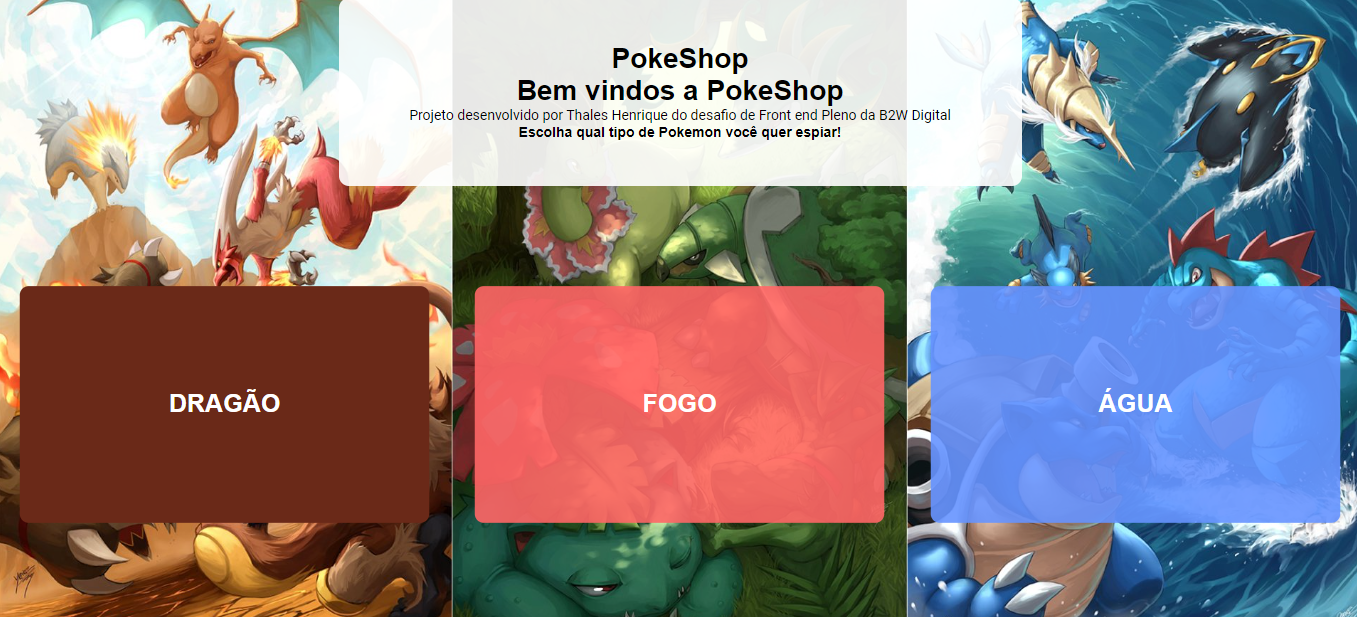
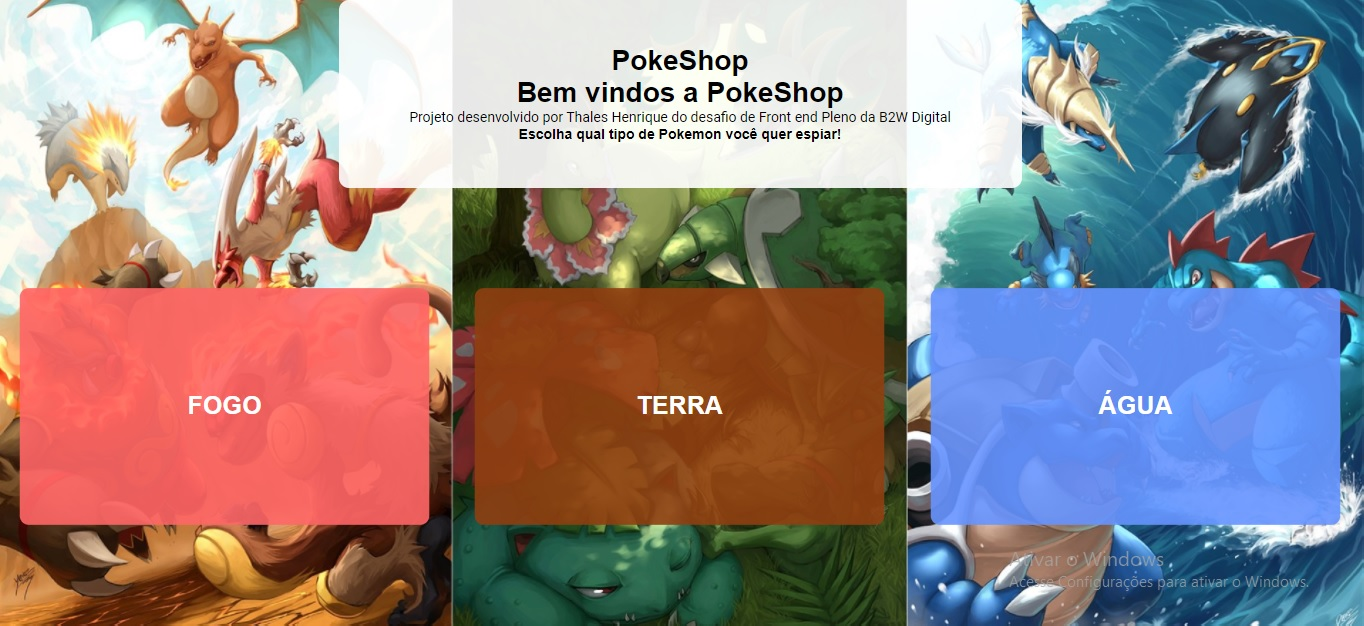
change dragon for ground

diff --git a/src/pages/Home/index.tsx b/src/pages/Home/index.tsx
@@ -1,14 +1,14 @@
 import React from 'react';
 import { usePokemons } from '../../contexts/usePokemon';
 import { Config, ChildComponentProps } from '../../interfaces/models';
-import { configTypeFire, configTypeWater, configTypeDragon } from '../../utils/utils';
+import { configTypeFire, configTypeWater, configTypeGround } from '../../utils/utils';
 import "./styles.css";
 
 const Home:  React.FC<ChildComponentProps> = ({ history })  => {
     const { handleSaveConfig } = usePokemons();
     let fire: Config = configTypeFire(),
         water: Config = configTypeWater(),
-        dragon: Config = configTypeDragon();
+        ground: Config = configTypeGround();
 
     const redirectByType = (value: Config): void => {
         handleSaveConfig(value);
@@ -24,11 +24,11 @@ const Home:  React.FC<ChildComponentProps> = ({ history })  => {
                     <h4>Escolha qual tipo de Pokemon você quer espiar!</h4>
                 </div>
                 <div className="home">
-                    <div onClick={() => redirectByType(dragon)} className="home-content home-content-dragon">
-                        <h1>DRAGÃO</h1>
-                    </div>
                     <div onClick={() => redirectByType(fire)} className="home-content home-content-red">
                         <h1>FOGO</h1>
+                    </div>
+                    <div onClick={() => redirectByType(ground)} className="home-content home-content-ground">
+                        <h1>TERRA</h1>
                     </div>
                     <div onClick={() => redirectByType(water)} className="home-content home-content-blue">
                         <h1>ÁGUA</h1>

diff --git a/src/styles/global.ts b/src/styles/global.ts
@@ -8,10 +8,9 @@ export default createGlobalStyle`
   --text-black: #110B11;
   --type-water-secondary: #184280; 
   --type-fire-secondary:  #c51a1d;
-  --type-dragon: #6A2918; 
-  --type-dragon-secondary:  #6A2918;
+  --type-ground: #8e3d0dd4; 
+  --type-ground-secondary:  #773007;
 }
-
 *{
     margin: 0;
     padding: 0;
@@ -36,11 +35,11 @@ body {
 .type-fire-secondary {
   background-color: var(--type-fire-secondary);
 }
-.type-dragon {
-  background-color: var(--type-dragon);
+.type-ground {
+  background-color: var(--type-ground);
 }
-.type-dragon-secondary {
-  background-color: var(--type-dragon-secondary);
+.type-ground-secondary {
+  background-color: var(--type-ground-secondary);
 }
 .text-black {
   color: var(--text-black);

diff --git a/src/utils/utils.tsx b/src/utils/utils.tsx
@@ -35,14 +35,14 @@ export const configTypeWater = (): Config => {
             type:'11'
     }
 }
-export const configTypeDragon = (): Config => {
+export const configTypeGround = (): Config => {
     return {
             color: {
-                primary: 'type-dragon',
-                secondary: 'type-dragon-secondary'
+                primary: 'type-ground',
+                secondary: 'type-ground-secondary'
             },
-            name: 'Dragão',
-            value:'dragon',
-            type:'16'
+            name: 'Terra',
+            value:'ground',
+            type:'5'
     }
 }

diff --git a/src/contexts/usePokemon.tsx b/src/contexts/usePokemon.tsx
@@ -71,12 +71,12 @@ const PokemonProvider: React.FC = ({ children }) => {
       },
       {
         color: {
-          primary: 'type-dragon',
-          secondary: 'type-dragon-secondary'
+          primary: 'type-ground',
+          secondary: 'type-ground-secondary'
         },
-        name: 'Dragão',
-        value: 'dragon',
-        type: '16'
+        name: 'Terra',
+        value: 'ground',
+        type: '5'
       },
     ];
   }

diff --git a/src/pages/Home/styles.css b/src/pages/Home/styles.css
@@ -39,8 +39,8 @@
 .home-content-red:hover {
     transform: scale(1);
 }
-.home-content-dragon {
-    background: #6A2918;
+.home-content-ground {
+    background: hsl(22deg 81% 31% / 90%);
     height: 60%;
     cursor: pointer;
     transform: scale(0.9);
@@ -64,7 +64,7 @@
     font-weight: 700;
     color: #fff;
 }
-.home-content-dragon h1 {
+.home-content-ground h1 {
     font-weight: 700;
     color: #fff;
 }

diff --git a/src/components/Header/index.tsx b/src/components/Header/index.tsx
@@ -60,7 +60,7 @@ const Header: React.FC = () => {
         classNames="NavAnimation"
         unmountOnExit
       >
-        <nav className={`nav ${getConfig().color.primary}`}>
+        <nav className={`nav`}>
           <Link to='/' className="nav-link link_navbar">Home</Link>
           <Link to='/shoppings' className="nav-link link_navbar">Pedidos</Link>
           <div className="justify_select">
